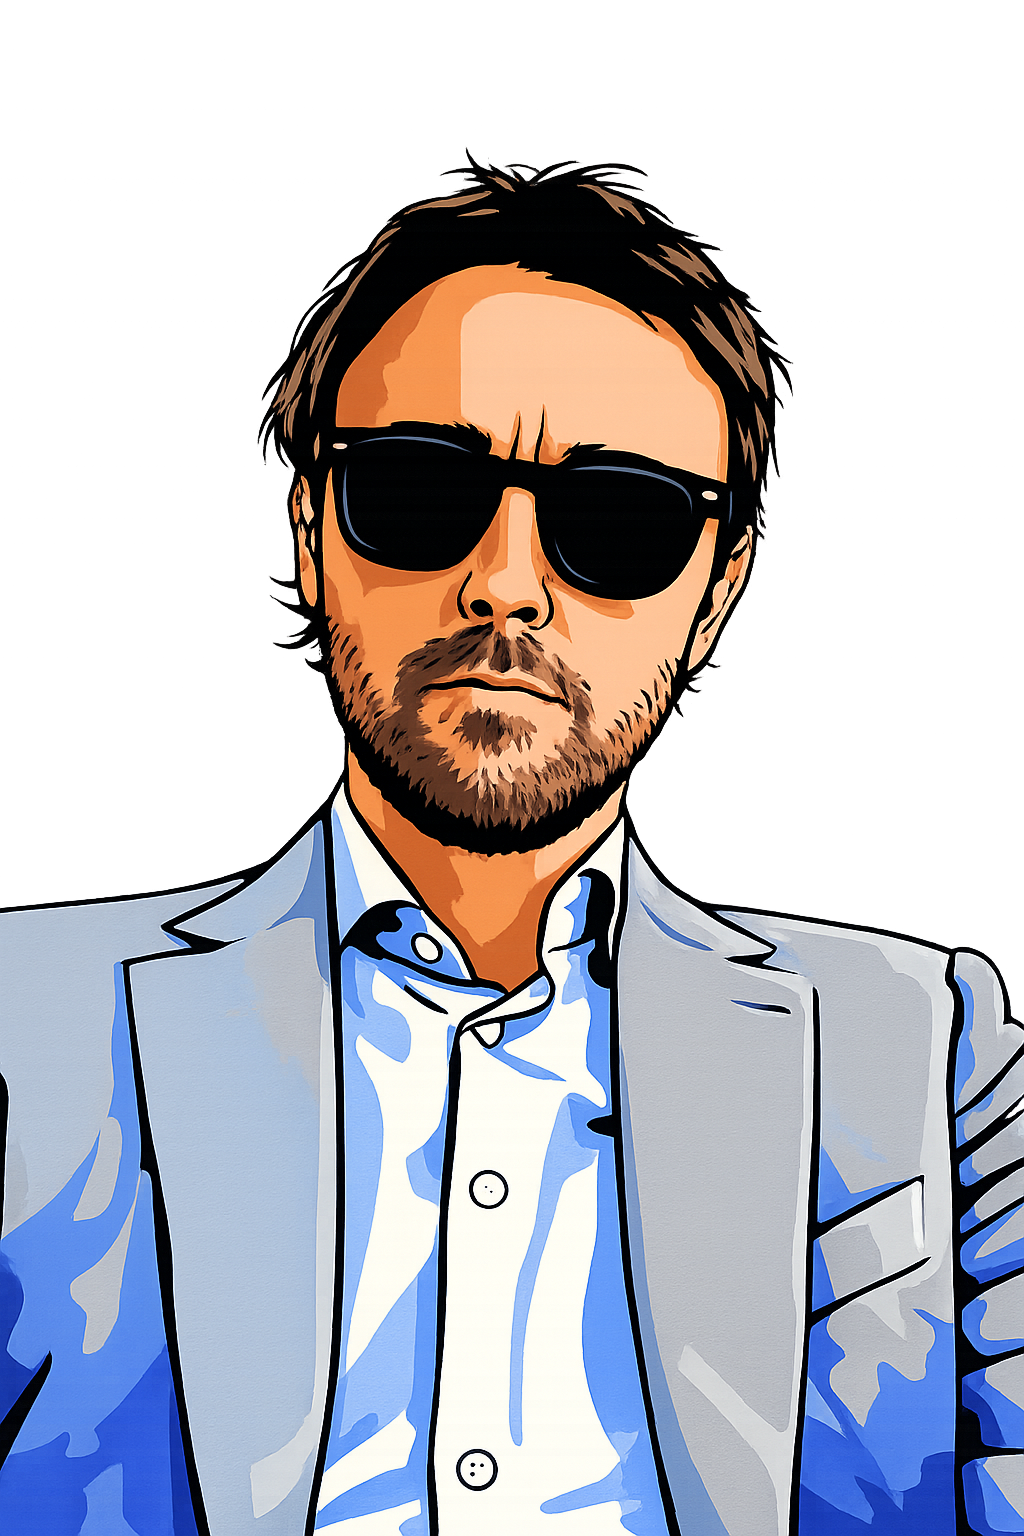
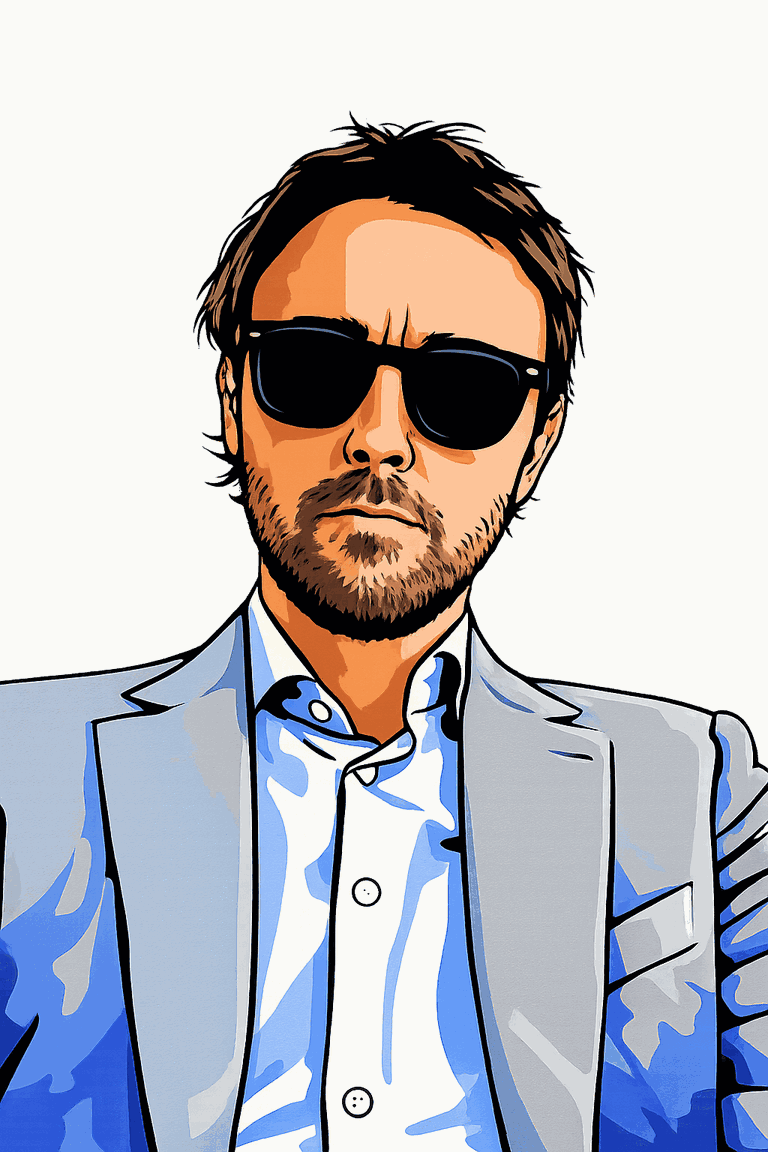
compress portrait, add 404 page, robots.txt, sitemap, and JSON-LD schema

diff --git a/404.html b/404.html
@@ -1,0 +1,90 @@
+<!DOCTYPE html>
+<html lang="en">
+<head>
+<meta charset="UTF-8">
+<meta name="viewport" content="width=device-width, initial-scale=1.0">
+<title>404 — Cody Coppin</title>
+<link rel="icon" href="/favicon.png" type="image/png">
+<link rel="preconnect" href="https://fonts.googleapis.com">
+<link href="https://fonts.googleapis.com/css2?family=Bebas+Neue&family=Space+Mono:wght@400;700&display=swap" rel="stylesheet">
+<style>
+
+*, *::before, *::after { box-sizing: border-box; margin: 0; padding: 0; }
+
+:root {
+  --white:  #fafaf8;
+  --ink:    #111110;
+  --blue:   #b0cde8;
+  --muted:  #888;
+  --font-display: 'Bebas Neue', sans-serif;
+  --font-mono:    'Space Mono', monospace;
+}
+
+body {
+  background: var(--white);
+  color: var(--ink);
+  font-family: var(--font-mono);
+  min-height: 100vh;
+  display: flex;
+  align-items: center;
+  justify-content: center;
+  -webkit-font-smoothing: antialiased;
+}
+
+.container {
+  text-align: center;
+  animation: fadeUp 0.55s ease both;
+}
+
+.code {
+  font-family: var(--font-display);
+  font-size: clamp(8rem, 20vw, 14rem);
+  line-height: 0.88;
+  letter-spacing: 0.02em;
+  color: var(--ink);
+}
+
+.message {
+  font-size: 0.78rem;
+  color: var(--muted);
+  letter-spacing: 0.06em;
+  margin-top: 1rem;
+}
+
+.back {
+  display: inline-block;
+  margin-top: 2.5rem;
+  font-family: var(--font-mono);
+  font-size: 0.6rem;
+  font-weight: 700;
+  letter-spacing: 0.15em;
+  text-transform: uppercase;
+  color: var(--ink);
+  text-decoration: none;
+  border: 2px solid var(--ink);
+  padding: 0.6rem 1.6rem;
+  transition: background 0.2s, color 0.2s;
+}
+
+.back:hover {
+  background: var(--ink);
+  color: var(--white);
+}
+
+@keyframes fadeUp {
+  from { opacity: 0; transform: translateY(10px); }
+  to   { opacity: 1; transform: translateY(0); }
+}
+
+</style>
+</head>
+<body>
+
+<div class="container">
+  <div class="code">404</div>
+  <div class="message">Page not found</div>
+  <a href="/" class="back">Back to Home</a>
+</div>
+
+</body>
+</html>

diff --git a/index.html b/index.html
@@ -506,5 +506,28 @@ nav       { animation: fadeUp 0.5s ease both; }
   </div>
 </footer>
 
+<script type="application/ld+json">
+{
+  "@context": "https://schema.org",
+  "@type": "Person",
+  "name": "Cody Coppin",
+  "url": "https://codycoppin.com",
+  "image": "https://codycoppin.com/portrait.png",
+  "email": "codycoppin@gmail.com",
+  "jobTitle": "Builder & Creative",
+  "address": {
+    "@type": "PostalAddress",
+    "addressLocality": "Austin",
+    "addressRegion": "TX",
+    "addressCountry": "US"
+  },
+  "sameAs": [
+    "https://nextlocal.ai",
+    "https://stares.band"
+  ],
+  "knowsAbout": ["AI", "Software", "SEO", "Music"]
+}
+</script>
+
 </body>
 </html>
